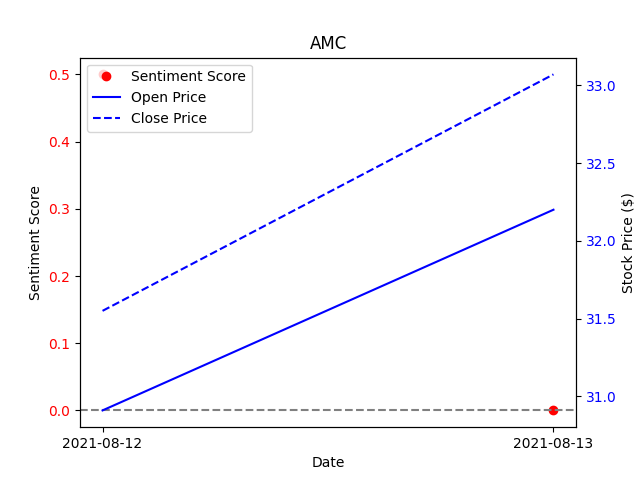
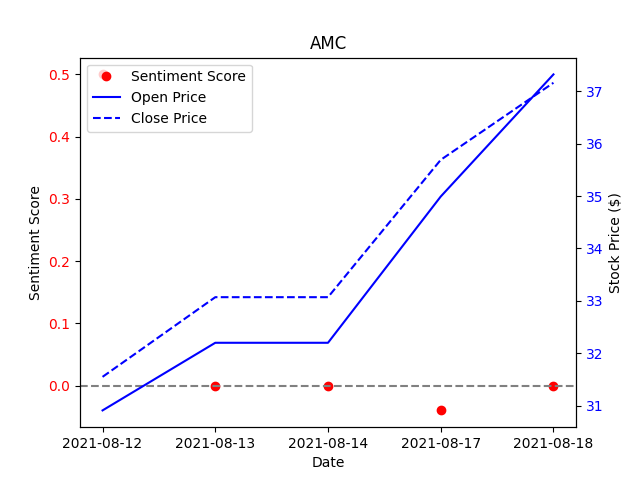
changed the running of functions to be daily at 1150 pm

diff --git a/jobs/updater.py b/jobs/updater.py
@@ -4,5 +4,5 @@ from .jobs import schedule
 
 def start():
     scheduler = BackgroundScheduler()
-    scheduler.add_job(schedule, 'date', run_date=datetime(2021, 8, 13, 21, 17))
+    scheduler.add_cron_job(schedule, hour=23, minute=50)
     scheduler.start()
